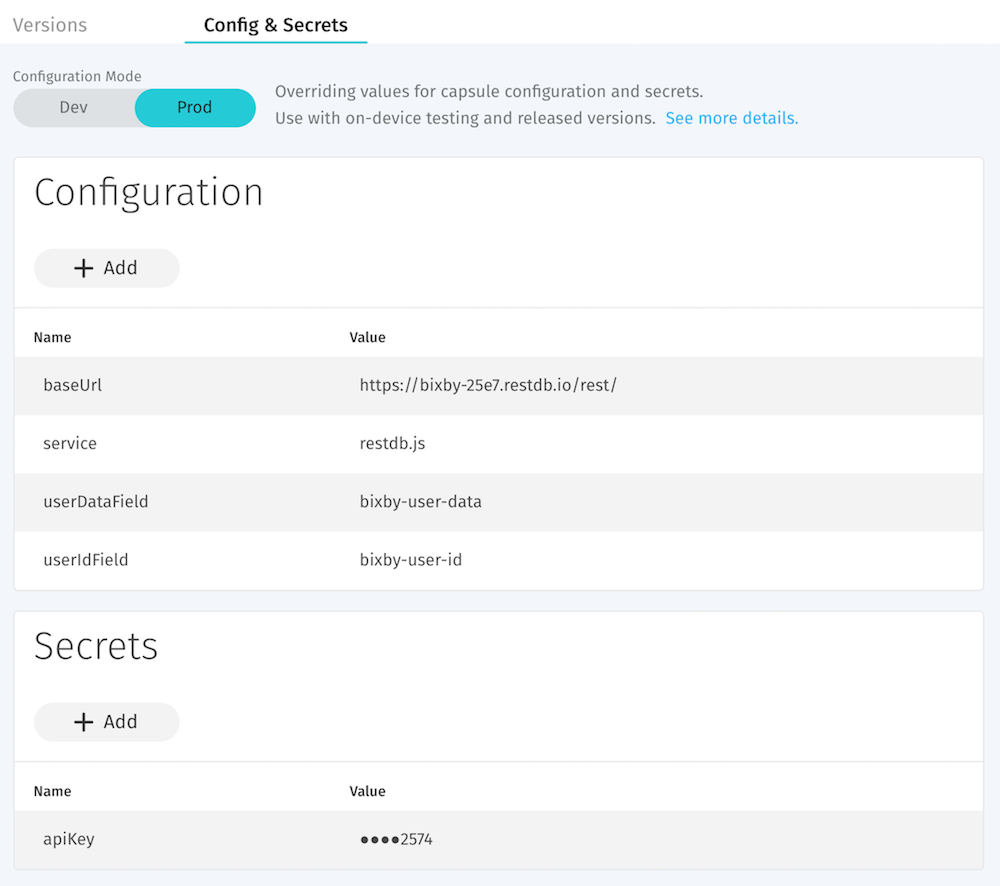
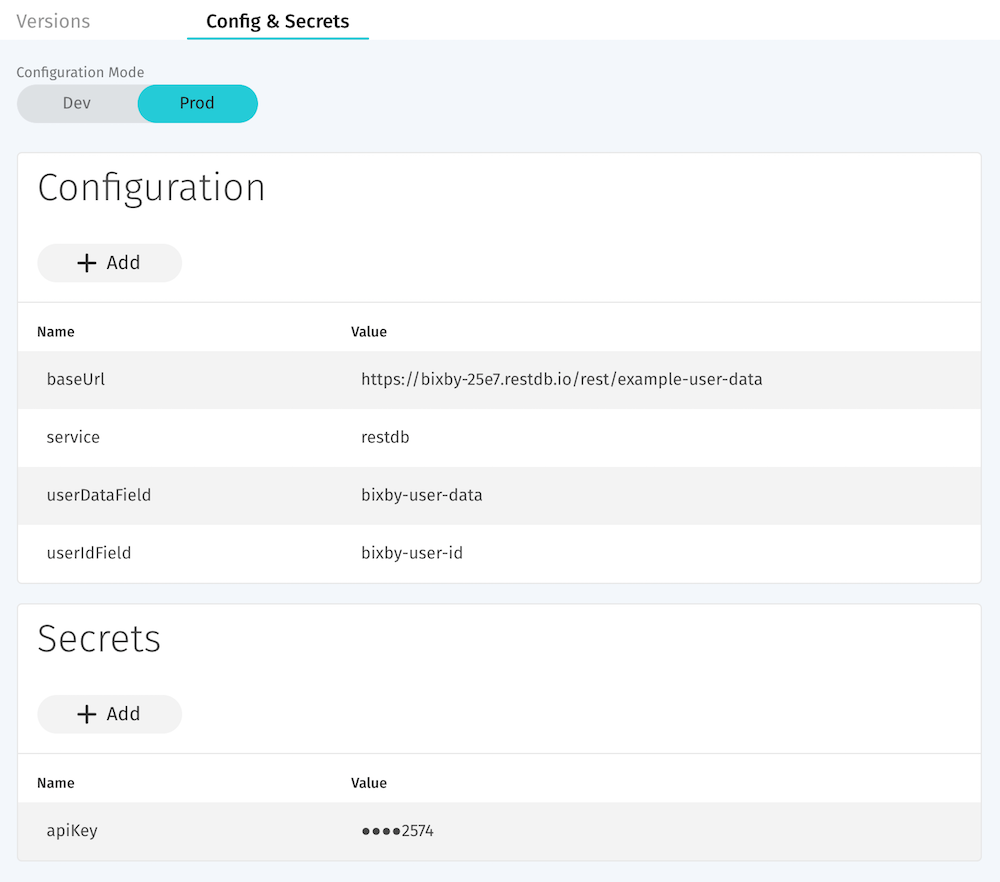
VCAP-14030 Allow running capsule without default service, as long as dynamic config is defined

diff --git a/user-data-persistence/code/lib/remoteDB.js b/user-data-persistence/code/lib/remoteDB.js
@@ -16,22 +16,38 @@
  **/
 var http = require('http')
 var properties = require('./properties.js')
-var remoteDB = require('./services/' + properties.get("config", "service"))
+var restDB = require('./services/restdb.js')
+var airtable = require('./services/airtable.js')
+// These may appear null at compile time because they are fetched dynamically at runtime
+var service = properties.get("config", "service")
+var remoteDB
+if (service) {
+  switch (service) {
+    case "restdb":
+      remoteDB = restDB
+      break;
+    case "airtable":
+      remoteDB = airtable
+      break;
+    default:
+      throw "Unrecognized service: " + service
+  }
+}
 
 module.exports = {
   /**
    * DELETE UserData
    * params: userData
    **/
-  deleteUserData: remoteDB.deleteUserData,
+  deleteUserData: remoteDB && remoteDB.deleteUserData,
   /**
    * READ UserData if exists, otherwise return nothing
    * params: bixbyUserId
    **/
-  getUserData: remoteDB.getUserData,
+  getUserData: remoteDB && remoteDB.getUserData,
   /**
    * UPDATE UserData if exists, otherwise CREATE UserData
    * params: bixbyUserId, userData
    */
-  putUserData: remoteDB.putUserData
+  putUserData: remoteDB && remoteDB.putUserData
 }

diff --git a/user-data-persistence/airtable.md b/user-data-persistence/airtable.md
@@ -25,7 +25,7 @@ to include `capsule.config.mode=exampleAirtable`.
 following values when requested.
   - Configs
   ```
-  service=airtable.js
+  service=airtable
   baseUrl=https://api.airtable.com/v0/appj3vi1PtX4Q9CqP/Table%201 // Update this to match the url provided in the docs for your new Workspace and Base at https://airtable.com/api
   userIdField=bixby-user-id // User id field from above
   userDataField=bixby-user-data // User data field from above

diff --git a/user-data-persistence/restDB.md b/user-data-persistence/restDB.md
@@ -19,7 +19,7 @@ to include `capsule.config.mode=exampleRestDB`.
 following values when requested.
   - Configs
   ```
-  service=restdb.js
+  service=restdb
   baseUrl=https://bixby-25e7.restdb.io/rest/example-user-data // Update this to match the url provided at the top of your Collection Developer Tools panel
   userIdField=bixby-user-id // User id field from above
   userDataField=bixby-user-data // User data field from above
